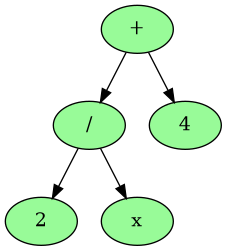
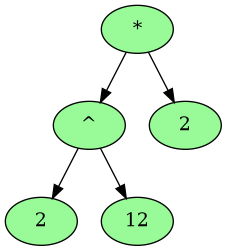
done

diff --git a/sources/parser/parser.c b/sources/parser/parser.c
@@ -52,6 +52,15 @@ int is_mul ( struct lexer_state *pstate)
         return 0;
     return 1;
 }
+int is_div (struct lexer_state *pstate)
+{
+    struct lexem_t cur = current (pstate);
+    if (cur.kind != OP)
+        return 0;
+    if (cur.lex.op != DIV)
+        return 0;
+    return 1;
+}
 
 int is_l_brace ( struct lexer_state *pstate)
 {
@@ -88,6 +97,65 @@ int is_var (struct lexer_state *pstate)
         return 0;
     return 1;
 }
+int is_op (struct lexer_state *pstate)
+{
+    struct lexem_t cur = current (pstate);
+    if (cur.kind != OP)
+        return 0;
+    return 1;
+}
+
+int is_sin (struct lexer_state *pstate)
+{
+    struct lexem_t cur = current (pstate);
+    if (cur.kind != OP)
+        return 0;
+    if (cur.lex.op != SIN)
+        return 0;
+    return 1;
+}
+
+int is_cos (struct lexer_state *pstate)
+{
+    struct lexem_t cur = current (pstate);
+    if (cur.kind != OP)
+        return 0;
+    if (cur.lex.op != COS)
+        return 0;
+    return 1;
+}
+
+int is_log (struct lexer_state *pstate)
+{
+    struct lexem_t cur = current (pstate);
+    if (cur.kind != OP)
+        return 0;
+    if (cur.lex.op != LOG)
+        return 0;
+    return 1;
+}
+
+int is_deg (struct lexer_state *pstate)
+{
+    struct lexem_t cur = current (pstate);
+    if (cur.kind != OP)
+        return 0;
+    if (cur.lex.op != DEG)
+        return 0;
+    return 1;
+}
+
+
+int is_exp (struct lexer_state *pstate)
+{
+    struct lexem_t cur = current (pstate);
+    if (cur.kind != OP)
+        return 0;
+    if (cur.lex.op != EXP)
+        return 0;
+    return 1;
+}
+
 
 
 // expr ::= term {+, -} term | term
@@ -126,7 +194,7 @@ struct node_t *parse_expr (struct lexer_state *pstate)
 
 
 
-// term ::= factor {*, /} factor | factor
+// term ::= factor {*, /, ^} factor | factor
 struct node_t *parse_term  (struct lexer_state *pstate)
 {
     struct node_t *lhs  = NULL;
@@ -136,13 +204,16 @@ struct node_t *parse_term  (struct lexer_state *pstate)
     lhs = parse_factor (pstate);
     term = lhs;
 
-    while (pstate->cur < pstate->lexarr.size && current(pstate).kind == OP && is_mul_div (pstate))
+    while (pstate->cur < pstate->lexarr.size && current(pstate).kind == OP && (is_mul_div (pstate) || is_deg (pstate)))
     {
         temp = calloc (1, sizeof (struct node_t));
         temp->data.kind   = OP;
-        temp->data.lex.op = DIV;
-        if (is_mul (pstate))
+        if (is_div (pstate))
+            temp->data.lex.op = DIV;
+        else if (is_mul (pstate))
             temp->data.lex.op = MUL;
+        else //deg
+            temp->data.lex.op = DEG;
         pstate->cur += 1;
 
         rhs = parse_factor (pstate);
@@ -158,7 +229,7 @@ struct node_t *parse_term  (struct lexer_state *pstate)
     return term;
 }
 
-// factor ::= ( expr ) | number
+// factor ::= ( expr ) | number | {sin(expr), cos(expr), ln (expr), exp (expr)}
 struct node_t *parse_factor (struct lexer_state *pstate)
 {
     struct node_t *expr = NULL;
@@ -195,6 +266,52 @@ struct node_t *parse_factor (struct lexer_state *pstate)
             return var;
         }
     }
+    if (is_op(pstate))
+    {
+        if (is_sin (pstate))
+        {
+            struct node_t *sin = calloc (1, sizeof(struct node_t));
+            sin->data.kind = OP;
+            sin->data.lex.op = current(pstate).lex.op;
+            pstate->cur += 1;
+            sin->left = parse_factor (pstate);
+            return sin;
+        }
+        else if (is_cos (pstate))
+        {
+            struct node_t *cos = calloc (1, sizeof(struct node_t));
+            cos->data.kind = OP;
+            cos->data.lex.op = current(pstate).lex.op;
+            pstate->cur += 1;
+            cos->left = parse_factor (pstate);
+            return cos;
+        }
+        else if (is_log (pstate))
+        {
+            
+            struct node_t *log = calloc (1, sizeof(struct node_t));
+            log->data.kind = OP;
+            log->data.lex.op = current(pstate).lex.op;
+            pstate->cur += 1;
+            log->left = parse_factor (pstate);
+            return log;
+        }
+        else if (is_exp (pstate))
+        {
+            
+            struct node_t *exp = calloc (1, sizeof(struct node_t));
+            exp->data.kind = OP;
+            exp->data.lex.op = current(pstate).lex.op;
+            pstate->cur += 1;
+            exp->left = parse_factor (pstate);
+            return exp;
+        }
+        else
+        {
+            fprintf (stderr, "ERROR: unexpected command in parsing factor\n");
+            exit (0);
+        }
+    }
     return NULL;
 }
 
@@ -207,7 +324,7 @@ struct node_t *build_syntax_tree(struct lex_array_t lexarr)
     res = parse_expr (&ls);
     if (ls.cur != ls.lexarr.size && res != 0)
     {
-        printf ("ERROR\n");
+        printf ("ERROR: error while building syntax tree\n");
         return 0;
     }
     return res;

diff --git a/sources/dump_tree/dump_tree.c b/sources/dump_tree/dump_tree.c
@@ -32,6 +32,21 @@ void DtSetNode (FILE* dotfile, struct node_t *node)
                 case DIV:
                     fprintf (dotfile, "/");
                     break;
+                case SIN:
+                    fprintf (dotfile, "sin");
+                    break;
+                case COS:
+                    fprintf (dotfile, "cos");
+                    break;
+                case LOG:
+                    fprintf (dotfile, "log");
+                    break;
+                case EXP:
+                    fprintf (dotfile, "exp");
+                    break;
+                case DEG:
+                    fprintf (dotfile, "^");
+                    break;
                 default:
                     printf ("ERROR: unknown operators type\n");
                     break;

diff --git a/sources/lexer/lexer.h b/sources/lexer/lexer.h
@@ -4,7 +4,7 @@
 #define MAXLEN 1024
 
 enum lexem_kind_t { OP, BRACE, VAR, NUM };
-enum operation_t { ADD, SUB, MUL, DIV, SIN, COS, EXP, LOG, DEG};
+enum operation_t { ADD, SUB, MUL, DIV, SIN, COS, EXP, LOG, DEG };
 enum braces_t { LBRAC, RBRAC };
 
 struct lexem_t {
